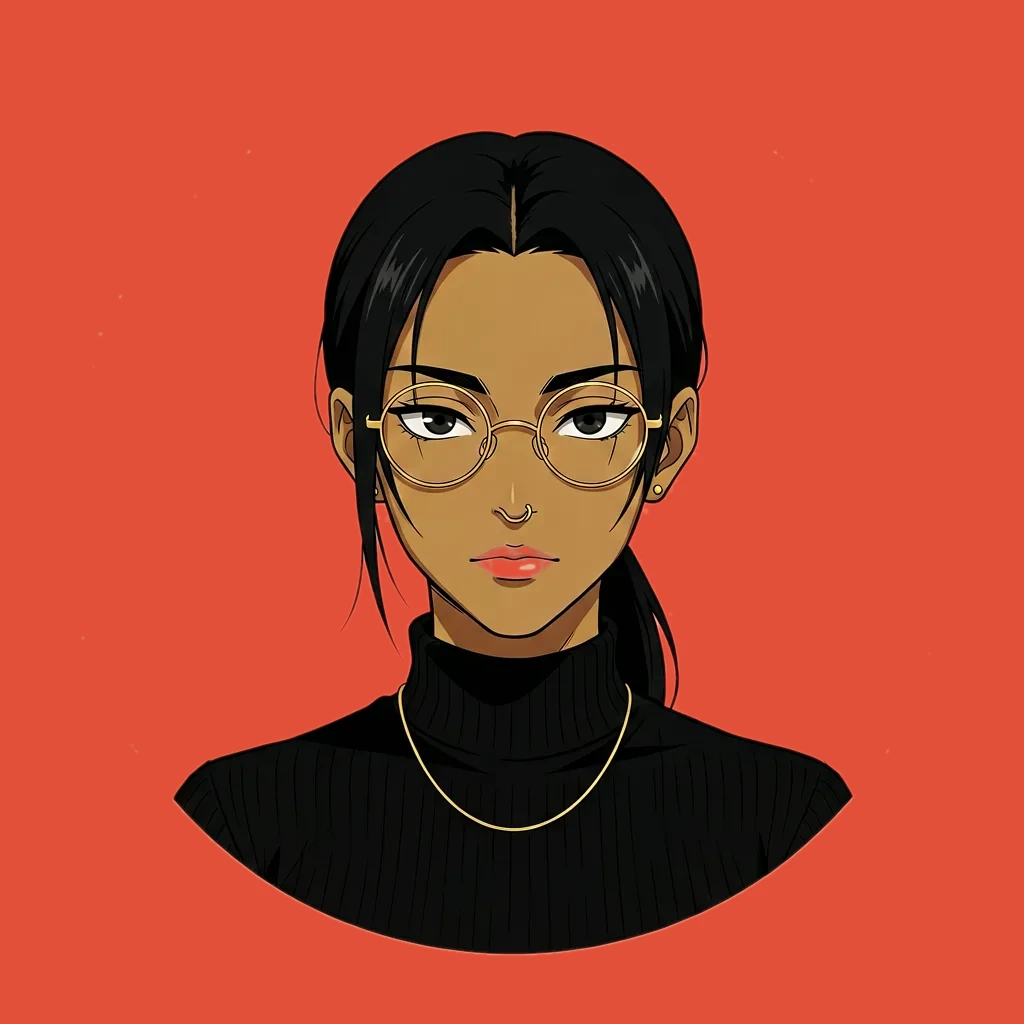
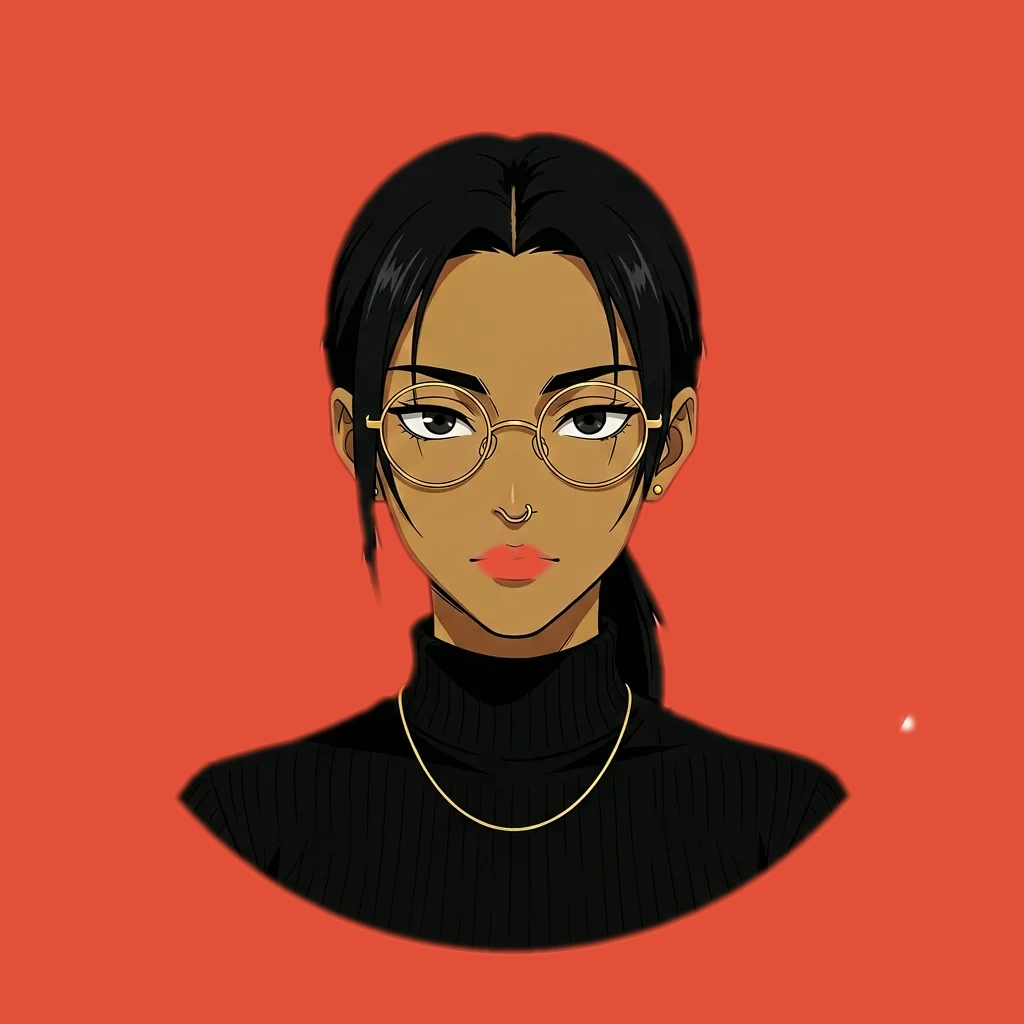
Architect: mask erosion removes shoulder rim coral-bleed on V3

diff --git a/renders/recolor_bg.py b/renders/recolor_bg.py
@@ -69,13 +69,16 @@ def recolor(infile, outfile):
     outer_haze = outer_ring & (L > 0.55) & ~is_warm_subject & ~platinum_dilated
     subject_mask = subject_mask & ~outer_haze
 
-    # Convert mask to PIL, stronger smoothing on the boundary to eliminate
-    # jagged "shadow line" artifacts at subject edges (especially shoulders).
+    # Convert mask to PIL.
     mask_img = Image.fromarray((subject_mask.astype(np.uint8) * 255), mode='L')
-    # MedianFilter cleans up isolated speckles without blurring the shape;
-    # then a light Gaussian feathers the edge smoothly.
-    mask_img = mask_img.filter(ImageFilter.MedianFilter(size=3))
-    mask_img = mask_img.filter(ImageFilter.GaussianBlur(radius=2.0))
+    # Median filter kills isolated speckles.
+    mask_img = mask_img.filter(ImageFilter.MedianFilter(size=5))
+    # ERODE the mask ~3 px: the rim pixels of the subject (shoulders/hair
+    # edges) carry lighter-coral bleed from ERNIE's rendering. Shrinking
+    # the mask replaces that bleed ring with solid coral — no shadow line.
+    mask_img = mask_img.filter(ImageFilter.MinFilter(size=7))
+    # Feather transition.
+    mask_img = mask_img.filter(ImageFilter.GaussianBlur(radius=2.5))
 
     # Solid coral background
     bg = Image.new('RGB', (W, H), TARGET_CORAL)
